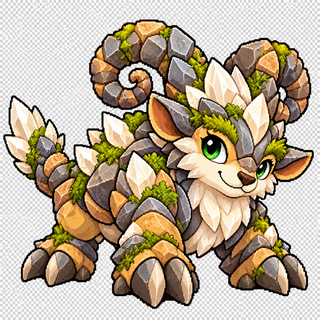
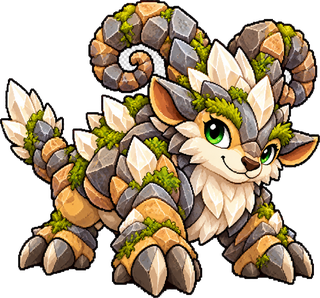
fix: hellen Hintergrund der Level-2-Karls freistellen (Ecken-Flood-Fill wie Lena)

diff --git a/tools/process_assets.py b/tools/process_assets.py
@@ -34,7 +34,9 @@ for i, name in enumerate(CREATURES, start=1):
     im.save(os.path.join(OUT, "pokemon", f"{i:02d}.png"))
     print("pokemon", i, name, im.size)
 
-# Level-2-Kreaturen -> id 21..30 (Reihenfolge = rarity-Zuordnung in levels.js)
+# Level-2-Kreaturen -> id 21..30 (Reihenfolge = rarity-Zuordnung in levels.js).
+# Verarbeitung weiter unten (braucht cutout_flood), da die Bilder einen
+# hellen Hintergrund haben (Level-1 kam bereits transparent).
 CREATURES2 = [
     "Kieselkarlo, der Quarzhorn-Buddler",
     "Karatekarlo, der Rotpanda-Känguru-Kämpfer",
@@ -47,11 +49,6 @@ CREATURES2 = [
     "Glitzerkarla, das schwebende Feenreh",
     "Düsterkarl, der Schattenmasken-Schleicher",
 ]
-for i, name in enumerate(CREATURES2, start=21):
-    im = Image.open(os.path.join(SRC, name + ".png")).convert("RGBA")
-    im = fit(trim(im), 320)
-    im.save(os.path.join(OUT, "pokemon", f"{i:02d}.png"))
-    print("pokemon L2", i, name, im.size)
 
 # Hintergründe
 for src_name, out_name, box in [("Draußen", "world", 720), ("Drinnen", "house", 720)]:
@@ -167,6 +164,14 @@ print("lukas", lukas.size)
 lena = fit(cutout_flood(Image.open(os.path.join(SRC, "lena.png")), tol=50), 360)
 lena.save(os.path.join(OUT, "pokemon", "12.png"))
 print("lena", lena.size)
+
+# Level-2-Kreaturen: hellen Hintergrund per Ecken-Flood-Fill freistellen (wie Lena),
+# dann trimmen + skalieren wie die Level-1-Kreaturen.
+for i, name in enumerate(CREATURES2, start=21):
+    im = cutout_flood(Image.open(os.path.join(SRC, name + ".png")), tol=50)
+    im = fit(im, 320)
+    im.save(os.path.join(OUT, "pokemon", f"{i:02d}.png"))
+    print("pokemon L2", i, name, im.size)
 
 # Player-Spritesheet: 2 Spalten x 4 Reihen.
 # Jeden Frame EINZELN freischneiden und dann zentriert + fußbündig auf eine
